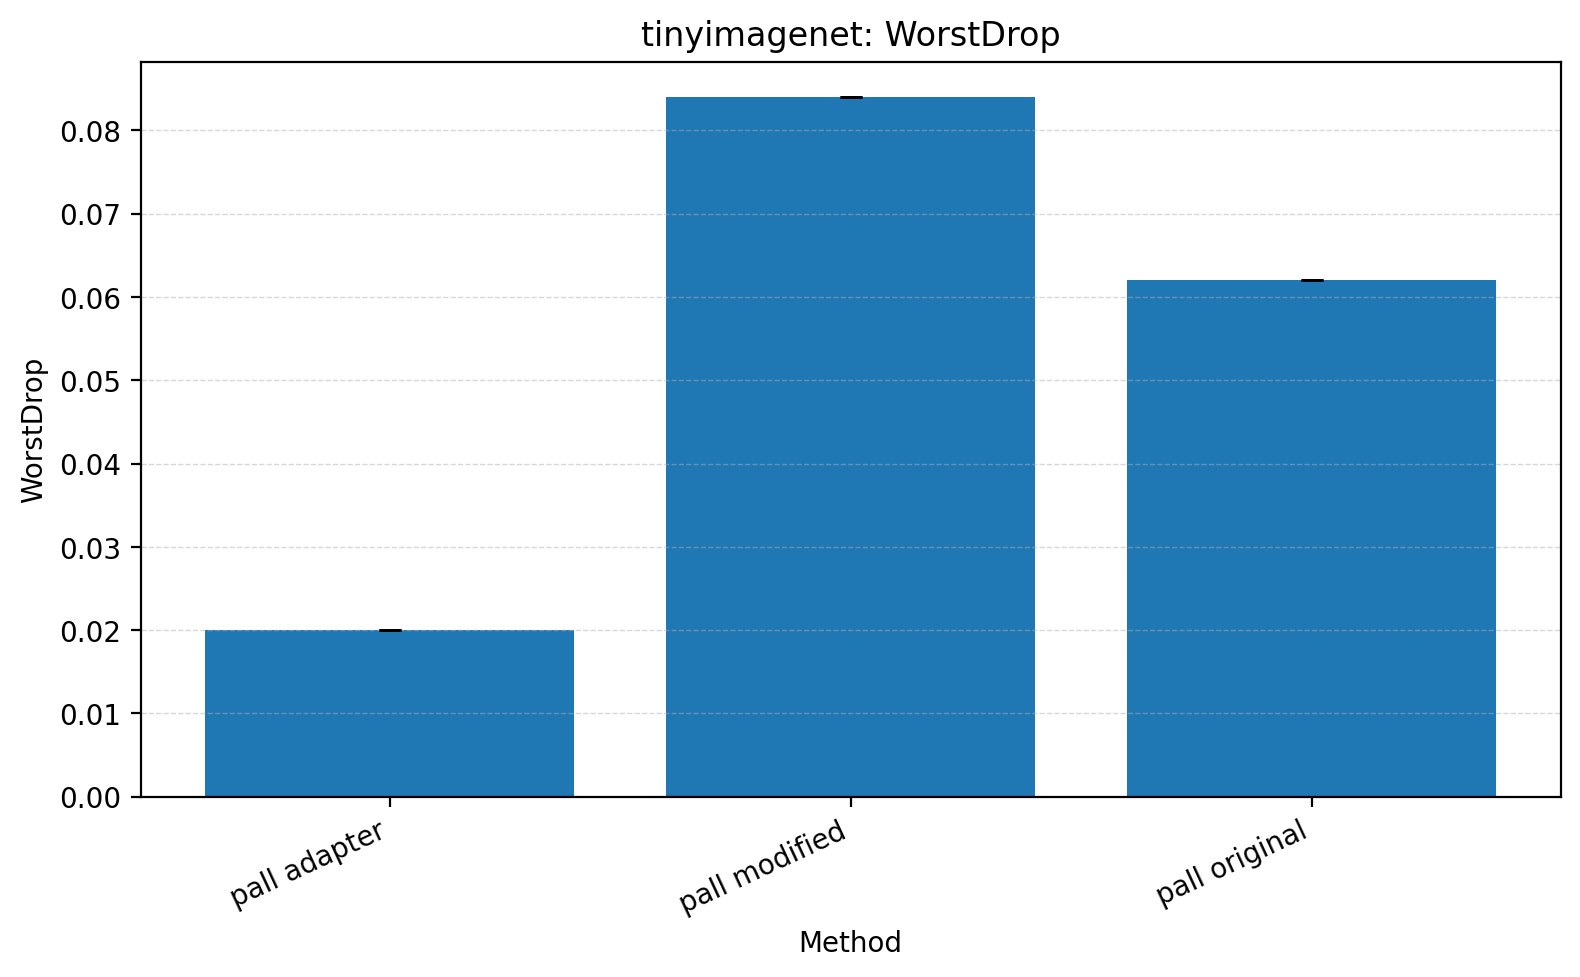
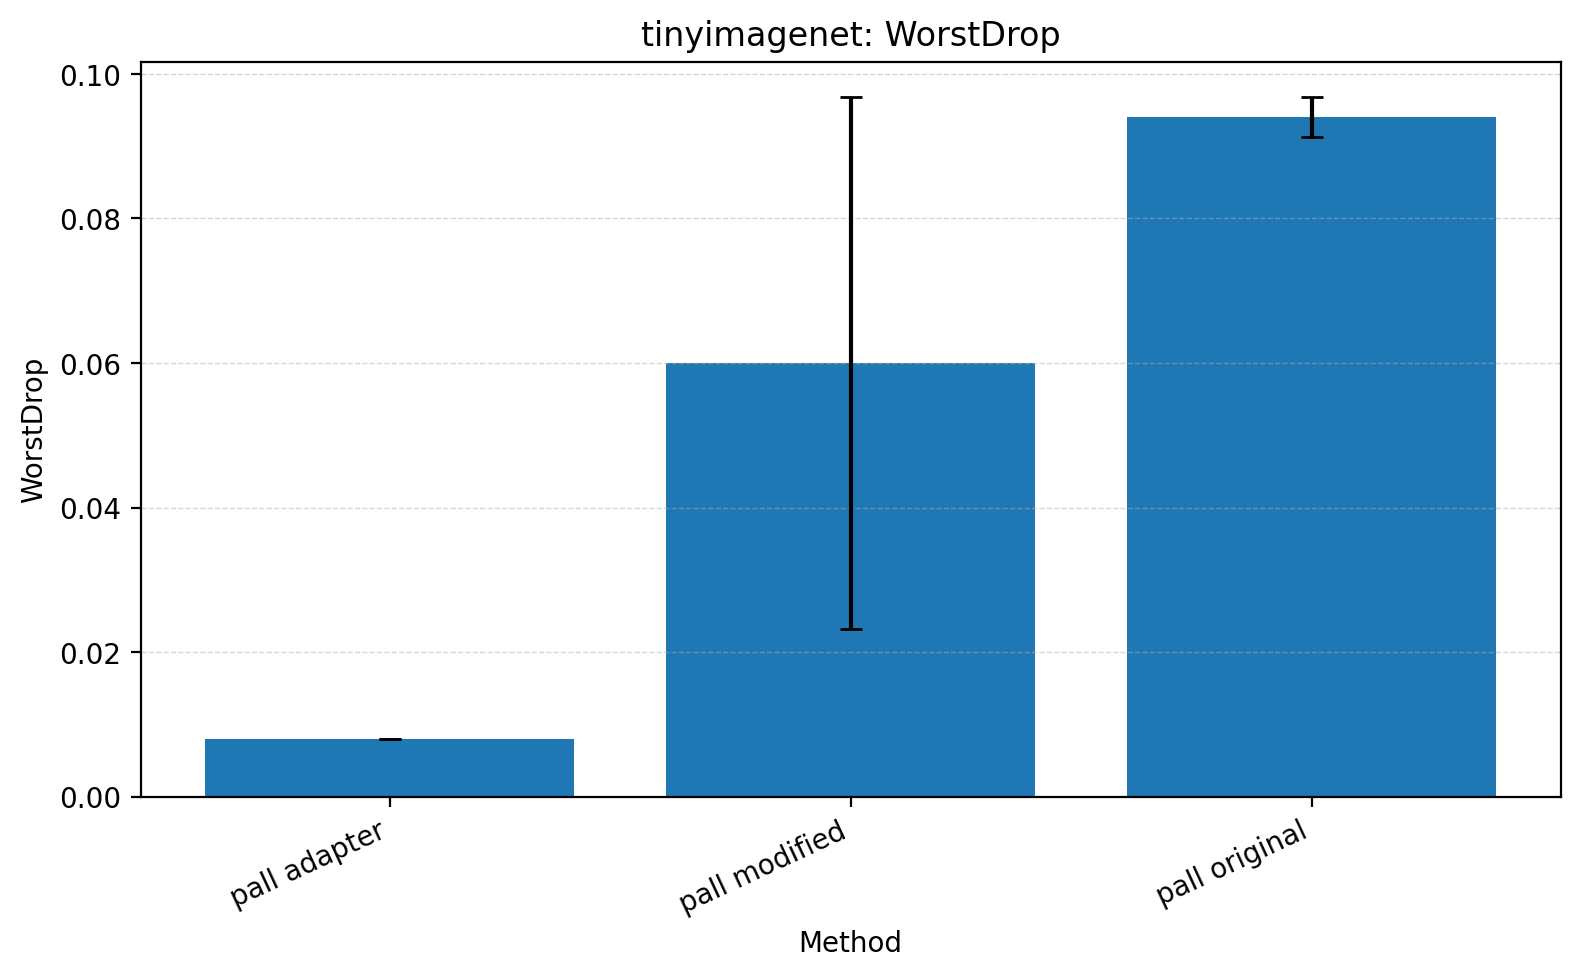
Add TinyImageNet multi-seed results to thesis report

diff --git a/results/thesis/thesis_final_table.md b/results/thesis/thesis_final_table.md
@@ -11,6 +11,6 @@
 | cifar100 | pall_adapter | thesis_adapter_bestcfg_c100_v1 | 16 | 0.3 | 0.2 |  |  |  | True | 0.4084 | 0.0293 | 0.0853 | 0.0086 | -0.0020 | 0.0024 | 0.0050 | 0.0042 | 0.1640 | 0.0283 | -0.0107 | 0.0051 | 0.0193 | 1.6078 | 0.0123 | 0.0159 |
 | cifar100 | pall_modified | c100_main_compare_v1 | 0 | 0.0 | 0.0 |  |  | 50 | False | 0.5377 | 0.0299 | 0.1045 | 0.0267 | -0.0071 | 0.0021 | 0.0140 | 0.0085 | 0.2120 | 0.0170 | -0.0523 | 0.0003 | 11.0157 | 11.0171 | 0.0763 | 0.0000 |
 | cifar100 | pall_original | c100_main_compare_v1 | 0 | 0.0 | 0.0 |  |  |  | False | 0.4233 | 0.0297 | 0.1611 | 0.0013 | 0.0294 | 0.0109 | 0.0710 | 0.0212 | 0.2250 | 0.0354 | -0.0443 | 0.0015 | 0.1811 | 0.1825 | 0.0763 | 0.0000 |
-| tinyimagenet | pall_adapter | tiny_sanity_adapter_v1 | 16 | 0.3 | 0.2 |  |  |  | True | 0.2874 | NA | 0.0641 | NA | -0.0001 | NA | 0.0200 | NA | 0.1120 | NA | -0.0247 | NA | 0.0481 | 11.0305 | 0.0292 | 0.0296 |
-| tinyimagenet | pall_modified | tiny_sanity_modified_v1 | 0 | 0.0 | 0.0 |  |  |  | False | 0.3302 | NA | 0.0727 | NA | 0.0203 | NA | 0.0840 | NA | 0.1000 | NA | -0.0698 | NA | 0.4949 | 0.4962 | 0.0961 | 0.0000 |
-| tinyimagenet | pall_original | tiny_sanity_original_v1 | 0 | 0.0 | 0.0 |  |  |  | False | 0.2485 | NA | 0.1446 | NA | 0.0240 | NA | 0.0620 | NA | 0.0920 | NA | -0.0550 | NA | 0.4421 | 0.4435 | 0.0961 | 0.0000 |
+| tinyimagenet | pall_adapter | tiny_e3_adapter_v1 | 16 | 0.3 | 0.2 |  |  |  | True | 0.3256 | 0.0064 | 0.0758 | 0.0017 | -0.0057 | 0.0028 | 0.0080 | 0.0000 | 0.0800 | 0.0311 | -0.0243 | 0.0028 | 0.0509 | 11.4884 | 0.0292 | 0.0296 |
+| tinyimagenet | pall_modified | tiny_e3_modified_v1 | 0 | 0.0 | 0.0 |  |  |  | False | 0.4566 | 0.0054 | 0.0869 | 0.0071 | 0.0157 | 0.0091 | 0.0600 | 0.0368 | 0.0960 | 0.0057 | -0.0623 | 0.0093 | 0.4430 | 0.4444 | 0.0960 | 0.0000 |
+| tinyimagenet | pall_original | tiny_e3_original_v1 | 0 | 0.0 | 0.0 |  |  |  | False | 0.3361 | 0.0141 | 0.1949 | 0.0147 | 0.0534 | 0.0103 | 0.0940 | 0.0028 | 0.0960 | 0.0113 | -0.0416 | 0.0117 | 0.4144 | 0.4161 | 0.0960 | 0.0000 |

diff --git a/results/thesis/report_table.md b/results/thesis/report_table.md
@@ -10,6 +10,6 @@
 | cifar100 | pall_adapter | 0.4084 +/- 0.0293 | 0.0853 +/- 0.0086 | -0.0020 +/- 0.0024 | 0.0050 +/- 0.0042 | 0.1640 +/- 0.0283 | 0.0123 | 0.0159 | 1.6078 |
 | cifar100 | pall_modified | 0.5377 +/- 0.0299 | 0.1045 +/- 0.0267 | -0.0071 +/- 0.0021 | 0.0140 +/- 0.0085 | 0.2120 +/- 0.0170 | 0.0763 | 0.0000 | 11.0171 |
 | cifar100 | pall_original | 0.4233 +/- 0.0297 | 0.1611 +/- 0.0013 | 0.0294 +/- 0.0109 | 0.0710 +/- 0.0212 | 0.2250 +/- 0.0354 | 0.0763 | 0.0000 | 0.1825 |
-| tinyimagenet | pall_adapter | 0.2874 | 0.0641 | -0.0001 | 0.0200 | 0.1120 | 0.0292 | 0.0296 | 11.0305 |
-| tinyimagenet | pall_modified | 0.3302 | 0.0727 | 0.0203 | 0.0840 | 0.1000 | 0.0961 | 0.0000 | 0.4962 |
-| tinyimagenet | pall_original | 0.2485 | 0.1446 | 0.0240 | 0.0620 | 0.0920 | 0.0961 | 0.0000 | 0.4435 |
+| tinyimagenet | pall_adapter | 0.3256 +/- 0.0064 | 0.0758 +/- 0.0017 | -0.0057 +/- 0.0028 | 0.0080 +/- 0.0000 | 0.0800 +/- 0.0311 | 0.0292 | 0.0296 | 11.4884 |
+| tinyimagenet | pall_modified | 0.4566 +/- 0.0054 | 0.0869 +/- 0.0071 | 0.0157 +/- 0.0091 | 0.0600 +/- 0.0368 | 0.0960 +/- 0.0057 | 0.0960 | 0.0000 | 0.4444 |
+| tinyimagenet | pall_original | 0.3361 +/- 0.0141 | 0.1949 +/- 0.0147 | 0.0534 +/- 0.0103 | 0.0940 +/- 0.0028 | 0.0960 +/- 0.0113 | 0.0960 | 0.0000 | 0.4161 |
